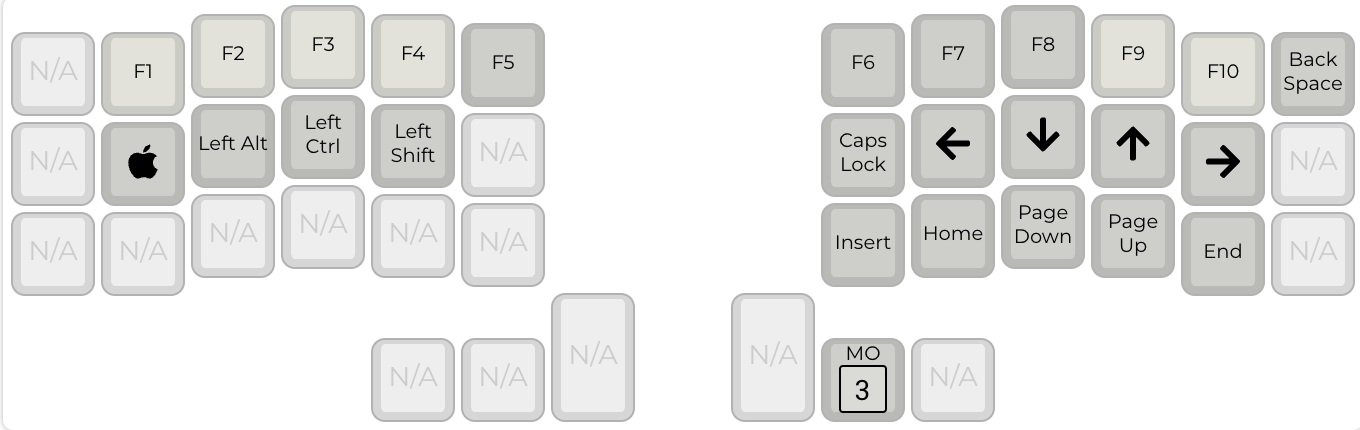
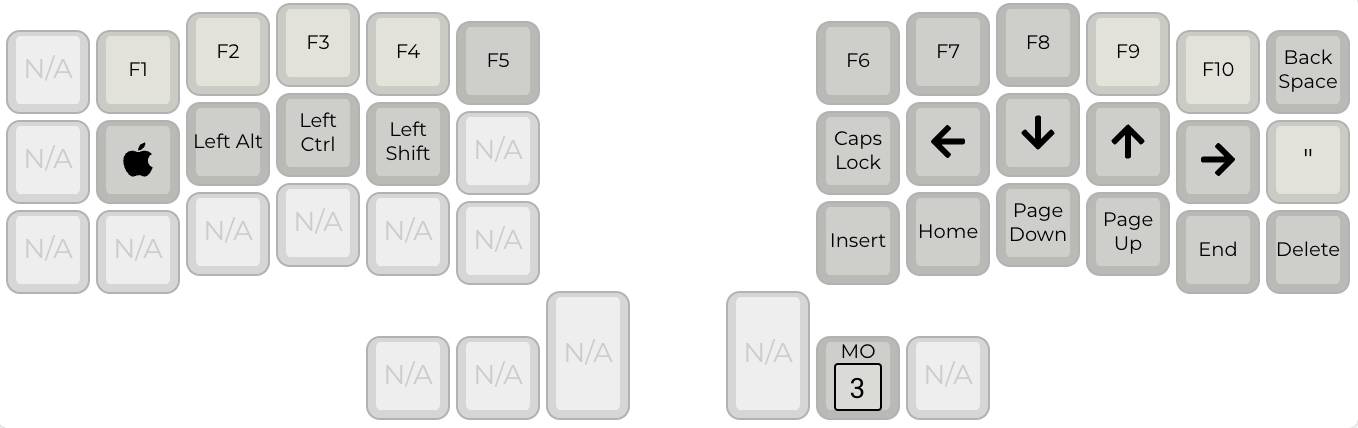
braces and brackets

diff --git a/keymap.c b/keymap.c
@@ -59,7 +59,7 @@ const uint16_t PROGMEM keymaps[][MATRIX_ROWS][MATRIX_COLS] = {
 
   [_NUMBERS] = LAYOUT_split_3x6_3(  // number layer
   //,-----------------------------------------------------.                    ,-----------------------------------------------------.
-      KC_GRV , KC_LBRC,    KC_7,    KC_8,    KC_9, KC_RBRC,                      _______, _______, KC_LPRN, KC_RPRN, _______, _______,
+      KC_GRV , KC_LBRC,    KC_7,    KC_8,    KC_9, KC_RBRC,                      KC_LBRC, KC_RBRC, KC_LPRN, KC_RPRN, _______, _______,
   //|--------+--------+--------+--------+--------+--------|                    |--------+--------+--------+--------+--------+--------|
     OSL(_LAW), KC_SCLN,    KC_4,    KC_5,    KC_6,  KC_EQL,                      _______, KC_RSFT, KC_RCTL, KC_LALT, KC_RGUI, _______,
   //|--------+--------+--------+--------+--------+--------|                    |--------+--------+--------+--------+--------+--------|
